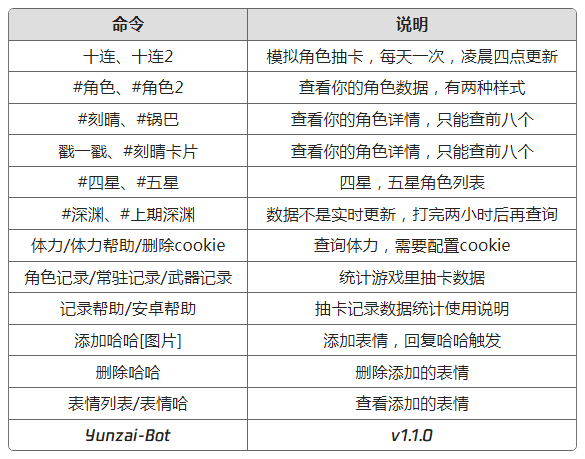
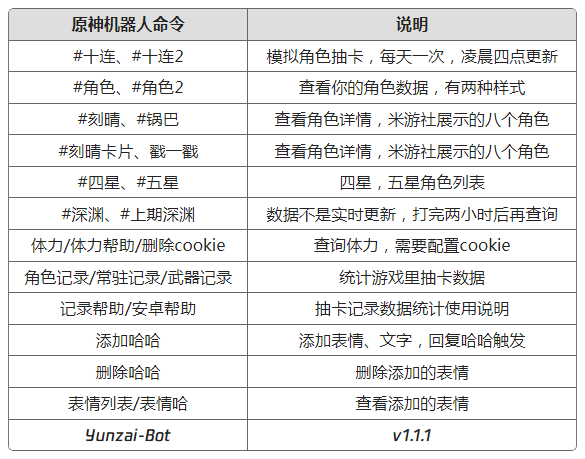
帮助说明更新

diff --git a/resources/help/help.html b/resources/help/help.html
@@ -67,11 +67,11 @@
     <div class="container" id="container">
       <table class="m-tb2">
         <tr>
-          <th>命令</th>
+          <th>原神机器人命令</th>
           <th>说明</th>
         </tr>
         <tr>
-          <td>十连、十连2</td>
+          <td>#十连、#十连2</td>
           <td>模拟角色抽卡，每天一次，凌晨四点更新</td>
         </tr>
         <tr>
@@ -80,11 +80,11 @@
         </tr>
         <tr>
           <td>#刻晴、#锅巴</td>
-          <td>查看你的角色详情，只能查前八个</td>
+          <td>查看角色详情，米游社展示的八个角色</td>
         </tr>
         <tr>
-          <td>戳一戳、#刻晴卡片</td>
-          <td>查看你的角色详情，只能查前八个</td>
+          <td>#刻晴卡片、戳一戳</td>
+          <td>查看角色详情，米游社展示的八个角色</td>
         </tr>
         <tr>
           <td>#四星、#五星</td>
@@ -107,8 +107,8 @@
           <td>抽卡记录数据统计使用说明</td>
         </tr>
         <tr>
-          <td>添加哈哈[图片]</td>
-          <td>添加表情，回复哈哈触发</td>
+          <td>添加哈哈</td>
+          <td>添加表情、文字，回复哈哈触发</td>
         </tr>
         <tr>
           <td>删除哈哈</td>
@@ -120,7 +120,7 @@
         </tr>
         <tr>
           <td class="logo">Yunzai-Bot</td>
-          <td class="logo">v1.1.0</td>
+          <td class="logo">v1.1.1</td>
         </tr>
       </table>
     </div>
